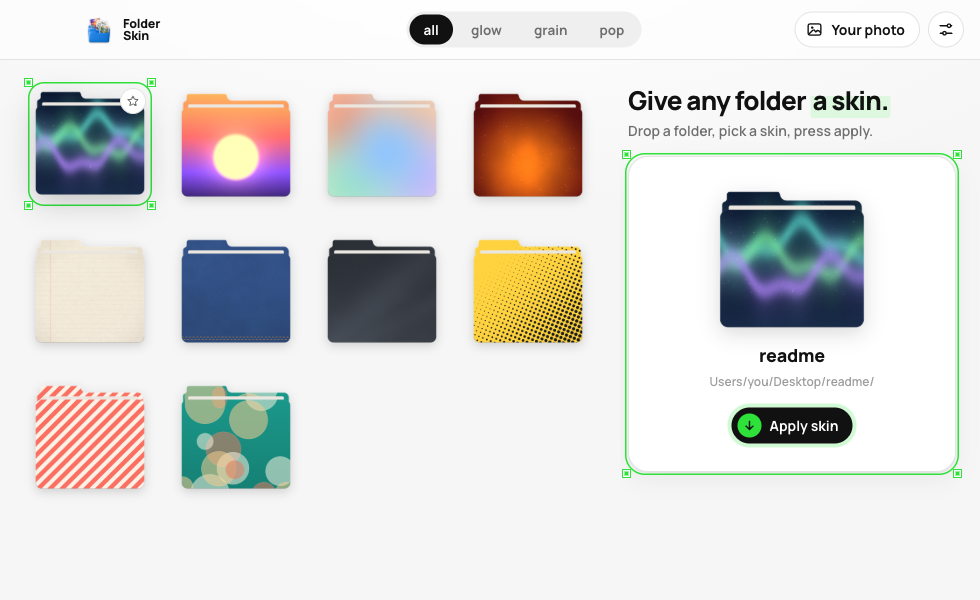
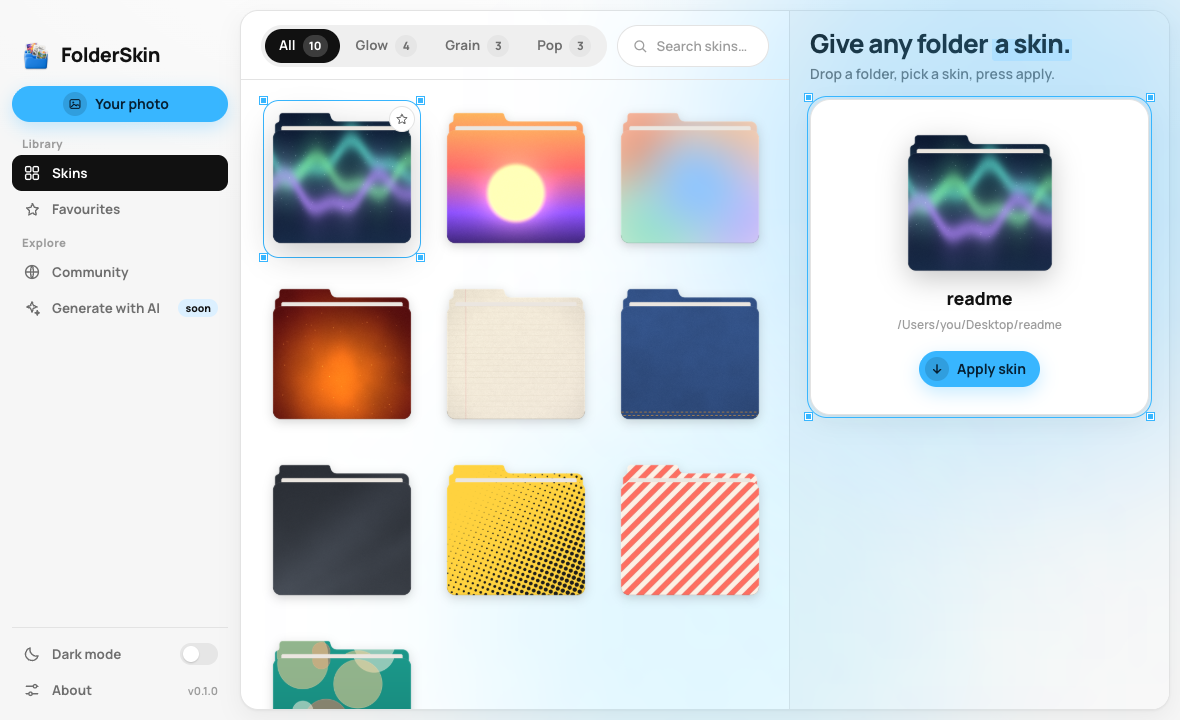
Sky-blue accent, sidebar CTA, repaired drop-zone styles, and fresh screenshots

diff --git a/src/App.tsx b/src/App.tsx
@@ -14,7 +14,6 @@ import { DropZone } from "./components/DropZone";
 import { AboutMenu } from "./components/AboutMenu";
 import { CommunityView } from "./components/CommunityView";
 import { GenerateView } from "./components/GenerateView";
-import { IconImage } from "./components/icons";
 
 const IMAGE_EXTENSIONS = ["png", "jpg", "jpeg", "webp", "heic", "heif"];
 const ALL = "all";
@@ -194,19 +193,6 @@ export default function App() {
         : "No skins match that search."
       : null);
 
-  const photoButton = (
-    <button
-      type="button"
-      className="btn btn-secondary"
-      title="use your own picture as a skin"
-      onMouseDown={(e) => e.preventDefault()}
-      onClick={pickPhoto}
-    >
-      <IconImage />
-      Your photo
-    </button>
-  );
-
   return (
     <main className={`app os-${platform.os}`}>
       <div className="blobs" aria-hidden="true">
@@ -220,6 +206,7 @@ export default function App() {
           if (v === "skins") setTab(ALL);
         }}
         favoritesCount={favorites.length}
+        onImport={pickPhoto}
         theme={theme}
         onToggleTheme={toggleThemePref}
         onAbout={() => setAboutOpen((v) => !v)}
@@ -237,7 +224,6 @@ export default function App() {
                   onChange={setTab}
                   query={query}
                   onQuery={setQuery}
-                  actions={photoButton}
                 />
                 <div className="gallery-scroll">
                   <Gallery
@@ -252,22 +238,8 @@ export default function App() {
                 </div>
               </>
             )}
-            {view === "community" && (
-              <>
-                <div className="toolbar toolbar-plain" data-tauri-drag-region>
-                  <div className="toolbar-actions">{photoButton}</div>
-                </div>
-                <CommunityView onImport={pickPhoto} />
-              </>
-            )}
-            {view === "generate" && (
-              <>
-                <div className="toolbar toolbar-plain" data-tauri-drag-region>
-                  <div className="toolbar-actions">{photoButton}</div>
-                </div>
-                <GenerateView />
-              </>
-            )}
+            {view === "community" && <CommunityView onImport={pickPhoto} />}
+            {view === "generate" && <GenerateView />}
           </section>
           <aside className="panel">
             <div className="panel-head">

diff --git a/src/styles/app.css b/src/styles/app.css
@@ -133,6 +133,7 @@ img {
   flex-direction: column;
   min-width: 0;
   min-height: 0;
+  overflow: hidden;
   animation: fade-up 260ms ease-out both;
 }
 
@@ -174,6 +175,14 @@ img {
 .os-macos .sidebar-top {
   height: 84px;
   padding-top: 26px; /* below the traffic lights */
+}
+
+.cta {
+  width: 100%;
+  margin: 2px 0 6px;
+  justify-content: center;
+  padding-right: 16px;
+  flex: none;
 }
 
 .sidebar-scroll {
@@ -372,28 +381,24 @@ img {
   display: flex;
   align-items: center;
   gap: 10px;
-  padding: 14px 18px 10px 20px;
+  padding: 14px 20px 12px;
   flex-wrap: nowrap;
+  min-width: 0;
   border-bottom: 1px solid var(--line);
 }
 
-.toolbar-plain {
-  min-height: 66px;
-  justify-content: flex-end;
-}
-
-.toolbar-actions {
-  margin-left: auto;
-  display: flex;
-  align-items: center;
-  gap: 8px;
-  flex: none;
-}
-
-.toolbar .btn,
 .seg {
+  min-width: 0;
+  overflow-x: auto;
+  scrollbar-width: none;
+}
+
+.seg::-webkit-scrollbar {
+  display: none;
+}
+
+.seg-btn {
   flex: none;
-  white-space: nowrap;
 }
 
 .seg {
@@ -454,7 +459,7 @@ img {
 
 .search {
   flex: 1 1 120px;
-  min-width: 96px;
+  min-width: 0;
   max-width: 300px;
   height: 42px;
   display: flex;
@@ -612,8 +617,8 @@ img {
 
 .gallery {
   display: grid;
-  grid-template-columns: repeat(auto-fill, 124px);
-  gap: 22px 22px;
+  grid-template-columns: repeat(auto-fill, minmax(118px, 1fr));
+  gap: 18px 16px;
   justify-content: start;
 }
 
@@ -626,8 +631,8 @@ img {
 
 .thumb-wrap {
   position: relative;
-  width: 124px;
-  height: 124px;
+  width: 100%;
+  aspect-ratio: 1;
   border-radius: var(--radius-card);
   transition: transform 180ms ease;
   animation: rise 360ms ease-out both;
@@ -662,8 +667,9 @@ img {
 }
 
 .thumb img {
-  width: 112px;
-  height: 112px;
+  width: 90%;
+  height: 90%;
+  object-fit: contain;
   filter: drop-shadow(var(--thumb-shadow));
   transition: filter 180ms ease, transform 180ms ease;
 }
@@ -830,19 +836,17 @@ img {
   width: 100%;
   min-height: 312px;
   border-radius: inherit;
-  transition: background-color 150ms ease;
-}
-
-.zone-hit:focus-visible {
-  background: var(--sky-soft);
-}
-
   display: flex;
   flex-direction: column;
   align-items: center;
   justify-content: center;
   gap: 4px;
   padding: 24px;
+  transition: background-color 150ms ease;
+}
+
+.zone-hit:focus-visible {
+  background: var(--sky-soft);
 }
 
 .zone-glyph {

diff --git a/src/components/Sidebar.tsx b/src/components/Sidebar.tsx
@@ -1,6 +1,6 @@
 import type { ReactNode } from "react";
 import type { Theme } from "../state/theme";
-import { IconGlobe, IconGrid, IconSliders, IconSparkles, IconStar } from "./icons";
+import { IconGlobe, IconGrid, IconImage, IconSliders, IconSparkles, IconStar } from "./icons";
 
 export type View = "skins" | "faves" | "community" | "generate";
 
@@ -10,6 +10,7 @@ export function Sidebar({
   view,
   onView,
   favoritesCount,
+  onImport,
   theme,
   onToggleTheme,
   onAbout,
@@ -18,6 +19,7 @@ export function Sidebar({
   view: View;
   onView: (v: View) => void;
   favoritesCount: number;
+  onImport: () => void;
   theme: Theme;
   onToggleTheme: () => void;
   onAbout: () => void;
@@ -48,6 +50,12 @@ export function Sidebar({
           <span className="brand-name">FolderSkin</span>
         </div>
       </div>
+      <button type="button" className="btn btn-primary cta" onMouseDown={(e) => e.preventDefault()} onClick={onImport}>
+        <span className="btn-badge">
+          <IconImage size={14} />
+        </span>
+        Your photo
+      </button>
       <div className="sidebar-scroll">
         {groups.map((g) => (
           <div className="nav-group" key={g.title}>

diff --git a/src/components/GalleryToolbar.tsx b/src/components/GalleryToolbar.tsx
@@ -1,4 +1,3 @@
-import type { ReactNode } from "react";
 import { IconSearch } from "./icons";
 
 export type TabCount = { id: string; label: string; count: number };
@@ -9,15 +8,12 @@ export function GalleryToolbar({
   onChange,
   query,
   onQuery,
-  actions,
 }: {
   tabs: TabCount[];
   active: string;
   onChange: (id: string) => void;
   query: string;
   onQuery: (q: string) => void;
-  /** Right-aligned controls (for example the "Your photo" button). */
-  actions?: ReactNode;
 }) {
   return (
     <div className="toolbar" data-tauri-drag-region>
@@ -48,7 +44,6 @@ export function GalleryToolbar({
           onChange={(e) => onQuery(e.target.value)}
         />
       </label>
-      {actions && <div className="toolbar-actions">{actions}</div>}
     </div>
   );
 }

diff --git a/README.md b/README.md
@@ -4,6 +4,12 @@ folders, but prettier.
 
 ![FolderSkin window](docs/images/app.png)
 
+<details><summary>Dark mode</summary>
+
+![FolderSkin in dark mode](docs/images/app-dark.png)
+
+</details>
+
 FolderSkin gives a folder a custom icon: drop a folder on the window, pick one of ten
 built-in skins or your own photo, and press apply. The icon changes immediately in Finder,
 Explorer or your file manager, and a revert button puts the operating system's default icon
